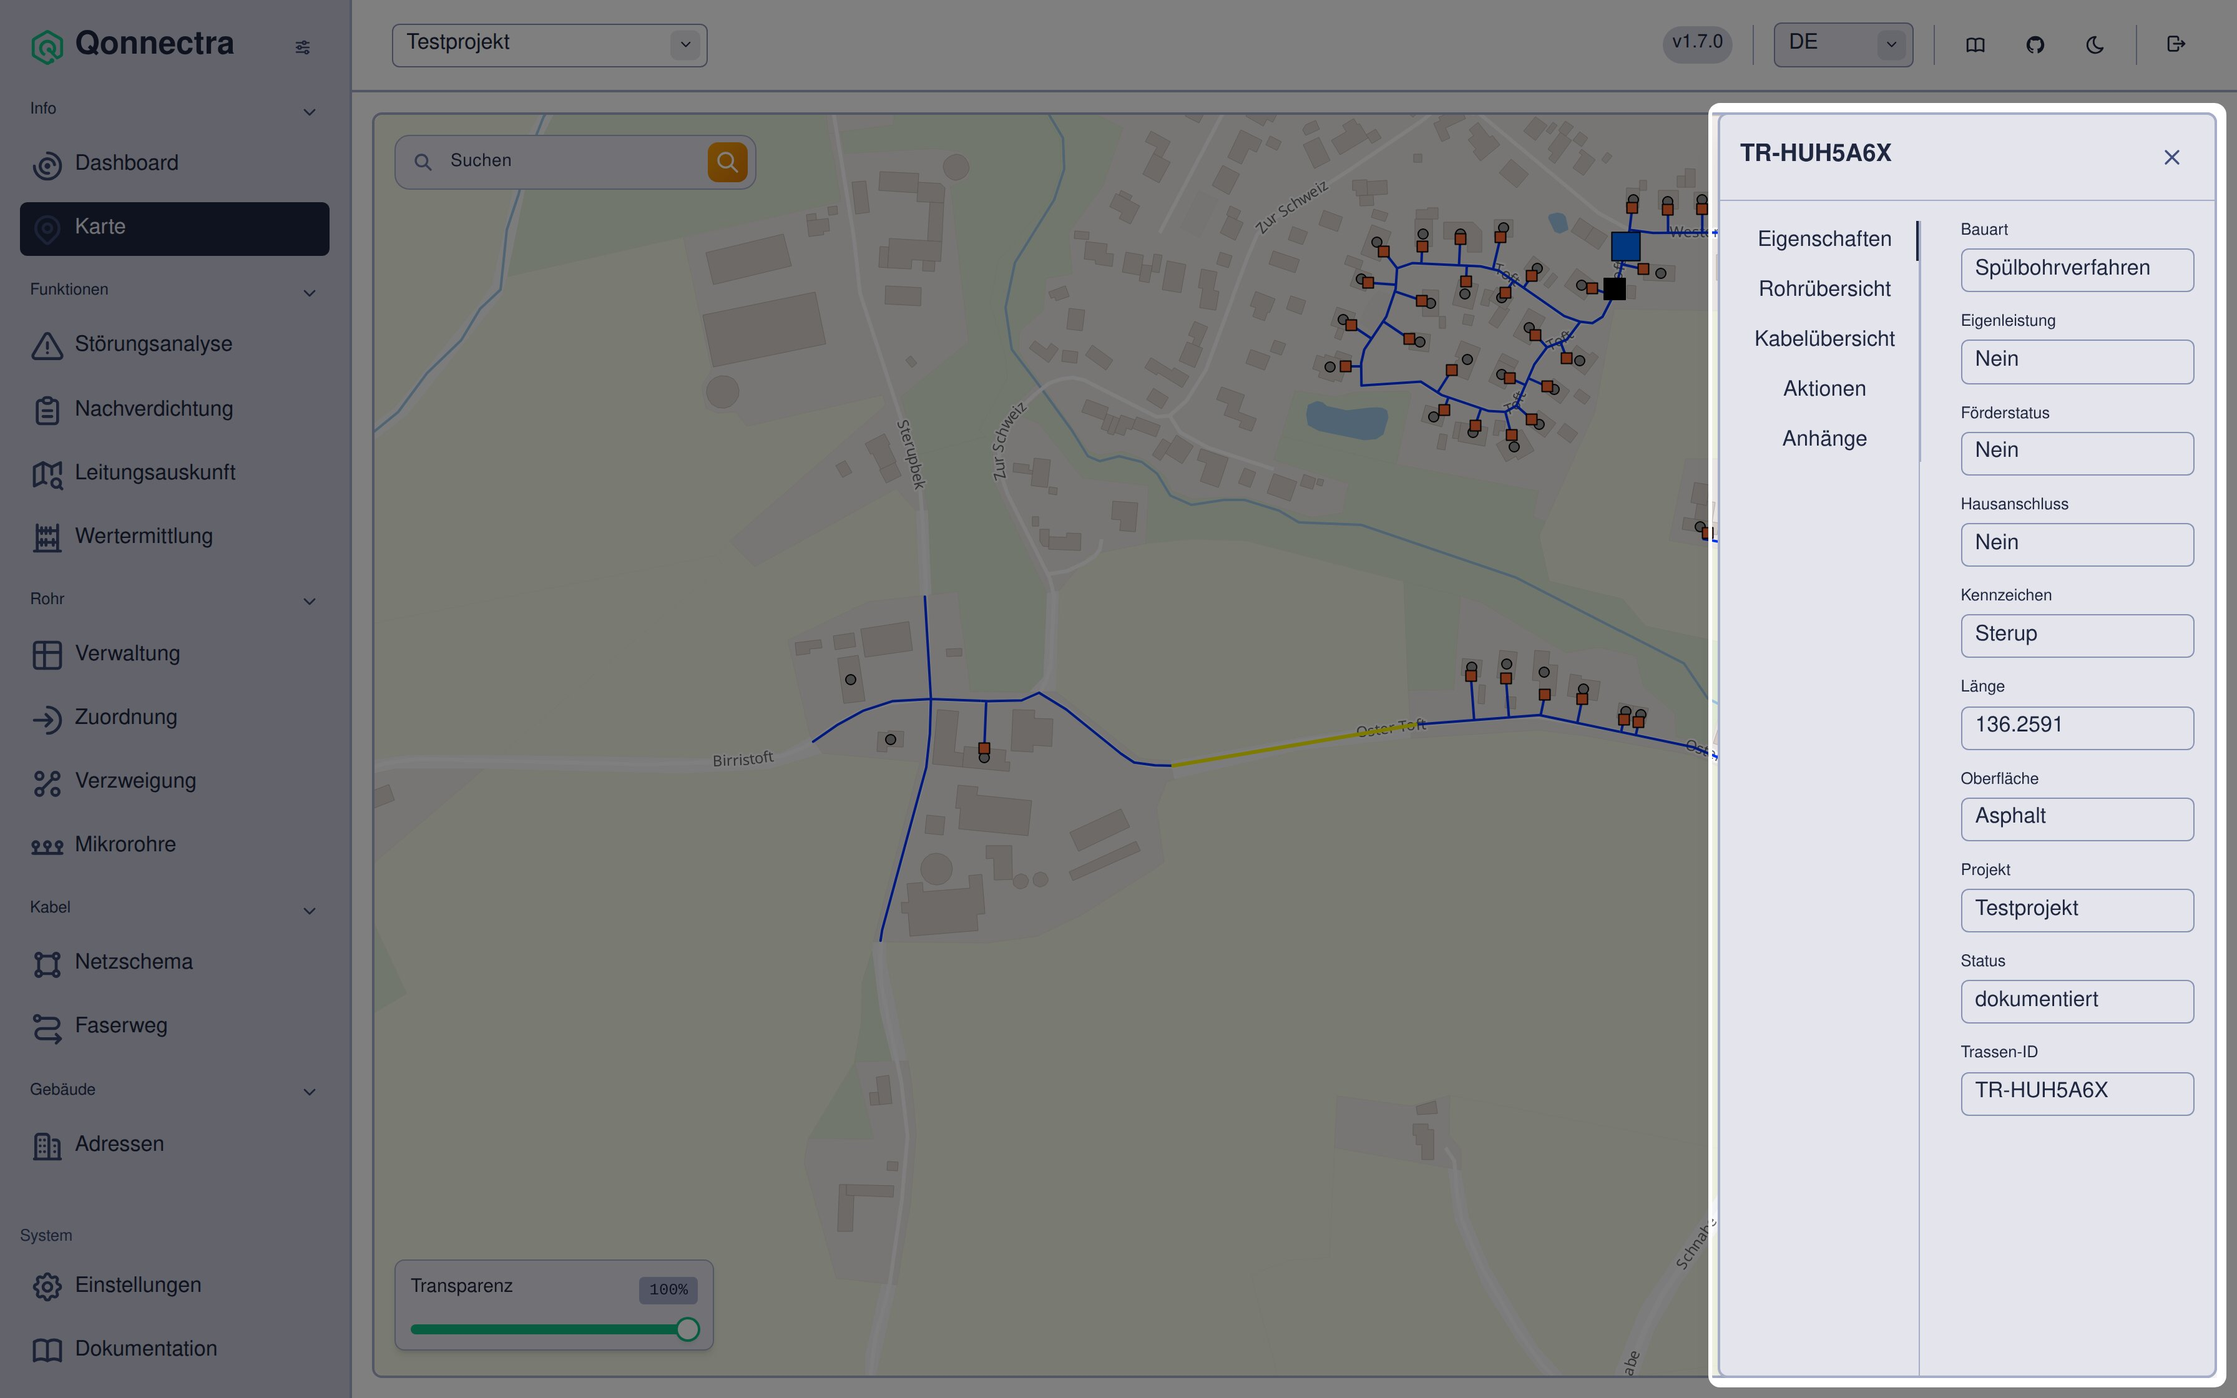
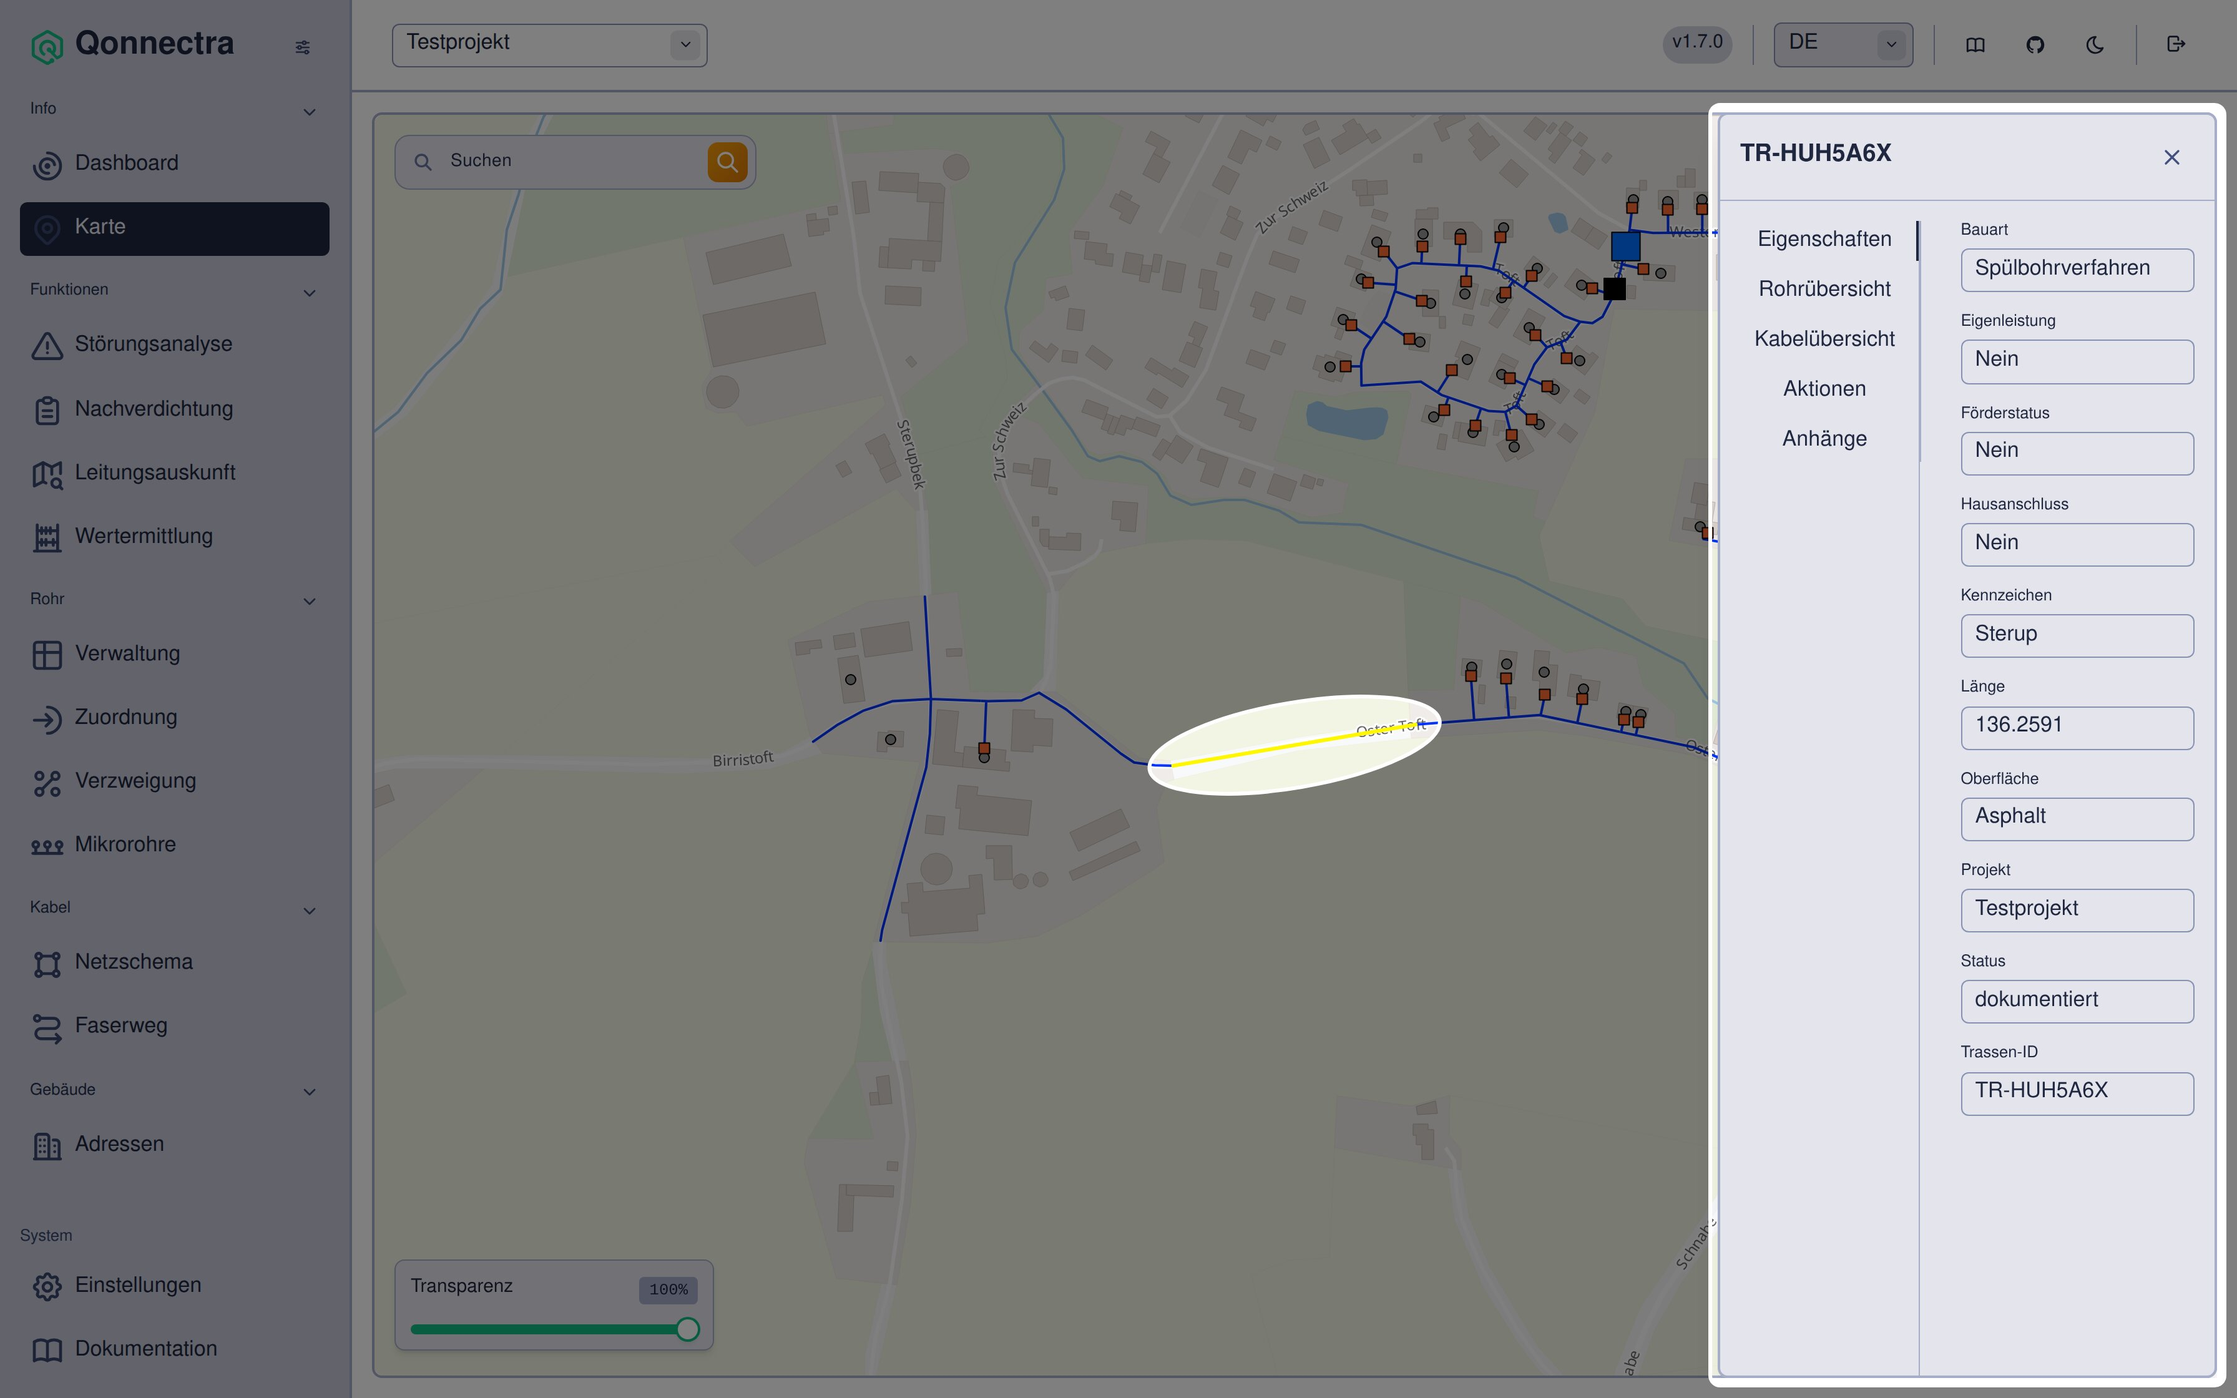
highlight map objects as ellipsis

Changed region(s): [[0.5, 0.5, 0.6562, 0.5938]]

diff --git a/playwright/manual-shots.ts b/playwright/manual-shots.ts
@@ -58,24 +58,92 @@ export async function zeigerWeg(page: Page): Promise<void> {
 export interface SpotlightOptions {
   /** Deckkraft des grauen Schleiers über dem Rest der Oberfläche. */
   dim?: number
-  /** Eckenradius der Aussparung in px. */
+  /** Eckenradius der Aussparung in px. Gilt nur für Element-Ziele. */
   radius?: number
-  /** Abstand zwischen Zielelement und Kontur in px. */
+  /** Abstand zwischen Zielelement und Kontur in px. Gilt nur für Element-Ziele. */
   padding?: number
   /** Strichstärke der weißen Kontur in px. */
   konturStaerke?: number
 }
 
+/**
+ * Freie Ellipse als Spotlight-Ziel, in CSS-Pixeln des Viewports.
+ *
+ * Für alles, was kein eigenes Element hat: Trassen, Adressen und Netzknoten
+ * zeichnet die Karte ins Canvas, einen Locator gibt es dafür nicht. `padding`
+ * und `radius` aus den Optionen greifen hier nicht – Lage und Größe stehen
+ * schon in der Ellipse.
+ */
+export interface SpotlightEllipse {
+  /** Mittelpunkt im Viewport. */
+  x: number
+  y: number
+  /** Halbachse längs bzw. quer zur Drehachse. */
+  rx: number
+  ry: number
+  /** Drehung um den Mittelpunkt in Grad, für schräg liegende Objekte. */
+  drehung?: number
+}
+
+/** Ein Spotlight kann mehrere Stellen gleichzeitig freistellen. */
+export type SpotlightZiel = Locator | SpotlightEllipse
+
 /** Kennzeichnet die eingefügte Überlagerung, damit sie wieder entfernbar ist. */
 const SPOTLIGHT_ID = 'qonnectra-doku-spotlight'
+
+function istEllipse(ziel: SpotlightZiel): ziel is SpotlightEllipse {
+  return 'rx' in ziel
+}
+
+/** Abgerundetes Rechteck um ein Element, als SVG-Pfad. */
+function rechteckPfad(
+  rect: { x: number; y: number; width: number; height: number },
+  padding: number,
+  radius: number,
+): string {
+  const x = rect.x - padding
+  const y = rect.y - padding
+  const w = rect.width + padding * 2
+  const h = rect.height + padding * 2
+  const r = Math.min(radius, w / 2, h / 2)
+
+  return (
+    `M${x + r},${y} H${x + w - r} A${r},${r} 0 0 1 ${x + w},${y + r} ` +
+    `V${y + h - r} A${r},${r} 0 0 1 ${x + w - r},${y + h} ` +
+    `H${x + r} A${r},${r} 0 0 1 ${x},${y + h - r} ` +
+    `V${y + r} A${r},${r} 0 0 1 ${x + r},${y} Z`
+  )
+}
+
+/**
+ * Ellipse als SVG-Pfad aus zwei Halbbögen. Die Drehung steckt in der
+ * `x-axis-rotation` der Bögen und nicht in einem `transform` – nur so lässt
+ * sich der Pfad mit den Rechtecken in einem gemeinsamen `d` kombinieren, und
+ * genau das macht die Aussparung per `fill-rule: evenodd` möglich.
+ */
+function ellipsenPfad({ x, y, rx, ry, drehung = 0 }: SpotlightEllipse): string {
+  const bogenmass = (drehung * Math.PI) / 180
+  const dx = rx * Math.cos(bogenmass)
+  const dy = rx * Math.sin(bogenmass)
+
+  return (
+    `M${x - dx},${y - dy} A${rx},${ry} ${drehung} 0 1 ${x + dx},${y + dy} ` +
+    `A${rx},${ry} ${drehung} 0 1 ${x - dx},${y - dy} Z`
+  )
+}
 
 /**
  * Muster 2: dunkelt die gesamte Oberfläche ab und lässt nur `ziel` in voller
  * Helligkeit mit weißer, abgerundeter Kontur stehen.
  *
- * Umgesetzt als eigenes SVG über der Seite, mit einer Aussparung an der Stelle
- * des Zielelements (`fill-rule: evenodd`). Am Zielelement und an seinen
- * Vorfahren wird bewusst **nichts** verändert. Der naheliegende Weg über
+ * `ziel` darf ein Element, eine Ellipse oder eine Liste aus beidem sein.
+ * Mehrere Ziele gleichzeitig braucht z. B. das ausgewählte Kartenobjekt: das
+ * Objekt selbst liegt im Canvas, seine Werte stehen in der Info-Box am rechten
+ * Rand – beide Stellen gehören ins Bild, alles dazwischen nicht.
+ *
+ * Umgesetzt als eigenes SVG über der Seite, mit einer Aussparung je Ziel
+ * (`fill-rule: evenodd`). An den Zielelementen und an ihren Vorfahren wird
+ * bewusst **nichts** verändert. Der naheliegende Weg über
  * `box-shadow: 0 0 0 9999px` am Zielelement funktioniert hier nicht:
  *
  * - Der Schatten endet am nächsten Vorfahren mit `overflow != visible`. Beim
@@ -93,34 +161,33 @@ const SPOTLIGHT_ID = 'qonnectra-doku-spotlight'
  */
 export async function spotlight(
   page: Page,
-  ziel: Locator,
+  ziel: SpotlightZiel | SpotlightZiel[],
   options: SpotlightOptions = {},
 ): Promise<() => Promise<void>> {
   const { dim = 0.5, radius = 8, padding = 6, konturStaerke = 3 } = options
 
-  await ziel.waitFor({ state: 'visible' })
+  const pfade: string[] = []
+  for (const einzelziel of Array.isArray(ziel) ? ziel : [ziel]) {
+    if (istEllipse(einzelziel)) {
+      pfade.push(ellipsenPfad(einzelziel))
+      continue
+    }
 
-  await ziel.evaluate(
-    (element: HTMLElement, { dim, radius, padding, konturStaerke, overlayId }) => {
+    await einzelziel.waitFor({ state: 'visible' })
+    const rect = await einzelziel.boundingBox()
+    if (!rect) {
+      throw new Error('Spotlight: Ziel ist sichtbar, hat aber keine Ausdehnung im Viewport.')
+    }
+    pfade.push(rechteckPfad(rect, padding, radius))
+  }
+
+  await page.evaluate(
+    ({ pfade, dim, konturStaerke, overlayId }) => {
       document.getElementById(overlayId)?.remove()
-
-      const rect = element.getBoundingClientRect()
-      const x = rect.left - padding
-      const y = rect.top - padding
-      const w = rect.width + padding * 2
-      const h = rect.height + padding * 2
-      const r = Math.min(radius, w / 2, h / 2)
 
       const breite = window.innerWidth
       const hoehe = window.innerHeight
-
-      // Abgerundetes Rechteck als zweiter Teilpfad; mit evenodd wird daraus
-      // die Aussparung im vollflächigen Schleier.
-      const loch =
-        `M${x + r},${y} H${x + w - r} A${r},${r} 0 0 1 ${x + w},${y + r} ` +
-        `V${y + h - r} A${r},${r} 0 0 1 ${x + w - r},${y + h} ` +
-        `H${x + r} A${r},${r} 0 0 1 ${x},${y + h - r} ` +
-        `V${y + r} A${r},${r} 0 0 1 ${x + r},${y} Z`
+      const loecher = pfade.join(' ')
 
       const svg = document.createElementNS('http://www.w3.org/2000/svg', 'svg')
       svg.id = overlayId
@@ -130,14 +197,16 @@ export async function spotlight(
       svg.style.cssText =
         'position:fixed;top:0;left:0;pointer-events:none;z-index:2147483647'
 
+      // Die Ziele sind weitere Teilpfade im vollflächigen Rechteck; mit evenodd
+      // werden daraus die Aussparungen im Schleier.
       const schleier = document.createElementNS('http://www.w3.org/2000/svg', 'path')
-      schleier.setAttribute('d', `M0,0 H${breite} V${hoehe} H0 Z ${loch}`)
+      schleier.setAttribute('d', `M0,0 H${breite} V${hoehe} H0 Z ${loecher}`)
       schleier.setAttribute('fill', `rgba(0, 0, 0, ${dim})`)
       schleier.setAttribute('fill-rule', 'evenodd')
       svg.appendChild(schleier)
 
       const kontur = document.createElementNS('http://www.w3.org/2000/svg', 'path')
-      kontur.setAttribute('d', loch)
+      kontur.setAttribute('d', loecher)
       kontur.setAttribute('fill', 'none')
       kontur.setAttribute('stroke', '#fff')
       kontur.setAttribute('stroke-width', String(konturStaerke))
@@ -145,7 +214,7 @@ export async function spotlight(
 
       document.body.appendChild(svg)
     },
-    { dim, radius, padding, konturStaerke, overlayId: SPOTLIGHT_ID },
+    { pfade, dim, konturStaerke, overlayId: SPOTLIGHT_ID },
   )
 
   return async () => {

diff --git a/tests/05-karte.spec.ts b/tests/05-karte.spec.ts
@@ -5,13 +5,14 @@ import {
   composite2x2,
   shotPath,
   spotlight,
+  type SpotlightEllipse,
   zeigerWeg,
 } from '../playwright/manual-shots'
 
 // Screenshots für Kapitel „5. Karte" im Handbuch
 // (manual/teil-a-anwenderhandbuch/05-karte.md). Erzeugt alle Bilder des
-// Kapitels; die handgezeichneten Markierungen (Muster 3) in
-// map_address_detail_select und map_selected_object bleiben Nachbearbeitung.
+// Kapitels; die handgezeichnete Markierung (Muster 3) in
+// map_address_detail_select bleibt Nachbearbeitung.
 //
 // Übernehmen nach public/images/ mit: pnpm screenshots:publish 05-karte
 const KAPITEL = '05-karte'
@@ -101,6 +102,126 @@ function legende(page: Page): Locator {
 /** Zeile eines Layers in der Legende, z. B. „Adresse". */
 function legendenZeile(page: Page, name: string): Locator {
   return legende(page).getByText(name, { exact: true }).locator('xpath=..')
+}
+
+/**
+ * Misst das ausgewählte Kartenobjekt im gezeichneten Bild und liefert die
+ * Ellipse, die es umschließt – als Ziel für `spotlight()`.
+ *
+ * Trassen, Adressen und Netzknoten zeichnet die Karte ins Canvas; ein Element,
+ * auf das ein Locator zeigen könnte, gibt es dafür nicht. Deshalb wird nach der
+ * Auswahlfarbe der App gesucht (`DEFAULT_SELECTED_COLOR` = `#fff700` in
+ * `local-app/frontend/src/lib/map/defaultColors.ts`); nichts anderes auf der
+ * Karte ist so gelb.
+ *
+ * Gemessen statt festgeschrieben, weil unter der Kartenmitte mehrere Trassen
+ * zusammenlaufen und von Lauf zu Lauf eine andere getroffen wird (siehe
+ * TRASSE_MUSTER). Lage, Länge und Neigung der Linie wechseln damit mit.
+ *
+ * Die Ellipse wird an der Hauptachse der Fundpunkte ausgerichtet (Kovarianz wie
+ * bei einer Hauptkomponentenanalyse). Ohne Drehung bräuchte eine schräg
+ * liegende Trasse eine Ellipse, die vor allem leeren Kartenausschnitt
+ * freistellt.
+ */
+async function ausgewaehltesKartenobjekt(page: Page): Promise<SpotlightEllipse> {
+  /** Luft zwischen Objekt und weißer Kontur, in CSS-Pixeln. */
+  const LUFT = 18
+  /**
+   * Eine Trassenlinie ist nur wenige Pixel breit. Ohne Mindestmaß quer zur
+   * Achse fiele die Ellipse zu einem Strich zusammen.
+   */
+  const MINDEST_QUER = 34
+
+  const mass = await page.evaluate(() => {
+    const punkte: number[][] = []
+
+    for (const canvas of Array.from(document.querySelectorAll('div.map canvas'))) {
+      const flaeche = canvas as HTMLCanvasElement
+      let daten
+      try {
+        const ctx = flaeche.getContext('2d')
+        if (!ctx) continue
+        daten = ctx.getImageData(0, 0, flaeche.width, flaeche.height).data
+      } catch {
+        // Ein Canvas mit Rasterkacheln fremder Herkunft ist für getImageData
+        // gesperrt. Die Objekte der Karte liegen ohnehin in einem anderen.
+        continue
+      }
+
+      // Das Canvas hat Gerätepunkte (deviceScaleFactor 2), die Ellipse braucht
+      // CSS-Pixel des Viewports.
+      const rect = flaeche.getBoundingClientRect()
+      const skalaX = rect.width / flaeche.width
+      const skalaY = rect.height / flaeche.height
+
+      for (let py = 0; py < flaeche.height; py += 1) {
+        const zeile = py * flaeche.width * 4
+        for (let px = 0; px < flaeche.width; px += 1) {
+          const i = zeile + px * 4
+          // Toleranz gegen Kantenglättung, aber eng genug, dass die orangen
+          // Adresspunkte und die gelblichen Straßen der Basiskarte draußen
+          // bleiben.
+          if (daten[i + 3] <= 200) continue
+          if (daten[i] <= 225 || daten[i + 1] <= 215 || daten[i + 2] >= 110) continue
+          punkte.push([rect.left + (px + 0.5) * skalaX, rect.top + (py + 0.5) * skalaY])
+        }
+      }
+    }
+
+    const anzahl = punkte.length
+    if (anzahl === 0) return { anzahl, x: 0, y: 0, laengs: 0, quer: 0, drehung: 0 }
+
+    let mx = 0
+    let my = 0
+    for (const [x, y] of punkte) {
+      mx += x
+      my += y
+    }
+    mx /= anzahl
+    my /= anzahl
+
+    let sxx = 0
+    let syy = 0
+    let sxy = 0
+    for (const [x, y] of punkte) {
+      const dx = x - mx
+      const dy = y - my
+      sxx += dx * dx
+      syy += dy * dy
+      sxy += dx * dy
+    }
+
+    // Richtung der Hauptachse der Punktwolke.
+    const winkel = 0.5 * Math.atan2(2 * sxy, sxx - syy)
+    const cos = Math.cos(winkel)
+    const sin = Math.sin(winkel)
+
+    let laengs = 0
+    let quer = 0
+    for (const [x, y] of punkte) {
+      const dx = x - mx
+      const dy = y - my
+      laengs = Math.max(laengs, Math.abs(dx * cos + dy * sin))
+      quer = Math.max(quer, Math.abs(dy * cos - dx * sin))
+    }
+
+    return { anzahl, x: mx, y: my, laengs, quer, drehung: (winkel * 180) / Math.PI }
+  })
+
+  expect(
+    mass.anzahl,
+    'Auf der Karte ist kein Objekt in der Auswahlfarbe #fff700 gezeichnet – ' +
+      'ist die Auswahl wirklich gesetzt, und stimmt die Farbe noch mit ' +
+      'DEFAULT_SELECTED_COLOR der App überein?',
+  ).toBeGreaterThan(50)
+
+  return {
+    x: mass.x,
+    y: mass.y,
+    rx: mass.laengs + LUFT,
+    ry: Math.max(mass.quer + LUFT, MINDEST_QUER),
+    drehung: mass.drehung,
+  }
 }
 
 /**
@@ -272,7 +393,12 @@ test('5.3 Ausgewähltes Objekt mit Info-Box', async ({ page }) => {
   await zeigerWeg(page)
   await page.waitForTimeout(500)
 
-  const spotAus = await spotlight(page, page.locator('[data-drawer]'))
+  // Freigestellt wird beides: das ausgewählte Objekt in der Karte und die
+  // Info-Box mit seinen Werten. Nur die Info-Box hervorzuheben lässt offen,
+  // welches Objekt überhaupt ausgewählt ist – die dünne gelbe Trassenlinie
+  // geht im abgedunkelten Kartenbild unter.
+  const objekt = await ausgewaehltesKartenobjekt(page)
+  const spotAus = await spotlight(page, [objekt, page.locator('[data-drawer]')])
   await page.screenshot({ path: shotPath(KAPITEL, 'map_selected_object') })
   await spotAus()
 })

diff --git a/CLAUDE.md b/CLAUDE.md
@@ -134,10 +134,15 @@ nicht.
    halben Wert des unabgedunkelten Bildes (255 → 128, 220 → 110). Ein grauer
    oder schwächerer Schleier wirkt neben den bestehenden Bildern deutlich zu
    hell; `spotlight()` in `playwright/manual-shots.ts` setzt diesen Wert.
+   Freigestellt werden dürfen auch mehrere Stellen gleichzeitig, wenn sie
+   zusammengehören – `map_selected_object.jpg` zeigt das ausgewählte
+   Kartenobjekt und die Info-Box mit seinen Werten, alles dazwischen bleibt
+   abgedunkelt. Für Kartenobjekte ist die Aussparung eine an der Linie
+   ausgerichtete Ellipse, kein Rechteck.
 3. **Handgezeichnete Markierung in Marken-Grün** (`#11ba81`) – geschwungene
    Ellipsen um Elemente, gebogene Pfeile und handschriftlich wirkende Labels.
    Für Orientierungsbilder mit mehreren Beschriftungen gleichzeitig
-   (`login_navigation.jpg`) und zum Hervorheben eines Kartenobjekts.
+   (`login_navigation.jpg`).
 4. **Composite-Raster** – 2 × 2 Einzelbilder mit weißen Fugen, jeder Schritt unten
    rechts mit einer großen grünen Ziffer nummeriert; die Ziffern entsprechen den
    Schritten der nummerierten Liste im Text (`map_search_flow.jpg`,
@@ -259,6 +264,18 @@ wird nicht mehr gelesen.
   `spotlight()` für Muster 2 und `composite2x2()` für Muster 4. Das Raster wird
   im Browser montiert, das Repo braucht dafür keine Bildbibliothek. Muster 3
   (handgezeichnete Ellipsen/Pfeile) bleibt Nachbearbeitung.
+  `spotlight()` nimmt ein Ziel oder eine Liste aus Zielen und stellt jedes
+  davon frei; ein Ziel ist entweder ein Locator oder eine `SpotlightEllipse`
+  in CSS-Pixeln des Viewports. Die Ellipse ist für alles gedacht, was kein
+  Element hat: Trassen, Adressen und Netzknoten zeichnet die Karte ins Canvas.
+  Wo sie liegt, wird gemessen und nicht festgeschrieben –
+  `ausgewaehltesKartenobjekt()` in `tests/05-karte.spec.ts` sucht im Canvas die
+  Auswahlfarbe der App (`DEFAULT_SELECTED_COLOR` = `#fff700`) und richtet die
+  Ellipse an der Hauptachse der Fundpunkte aus. Nötig ist das, weil unter der
+  Kartenmitte mehrere Trassen zusammenlaufen und je Lauf eine andere getroffen
+  wird; Neigung und Länge der Linie wechseln damit mit. Ist ein Canvas durch
+  fremde Rasterkacheln für `getImageData` gesperrt, wird es übersprungen – die
+  Objekte liegen ohnehin in einem anderen.
   `spotlight()` legt ein SVG mit Aussparung über die Seite und verändert das
   Zielelement nicht. Der naheliegende Weg über `box-shadow: 0 0 0 9999px` am
   Element selbst scheitert hier zweifach: der Schleier wird am nächsten
